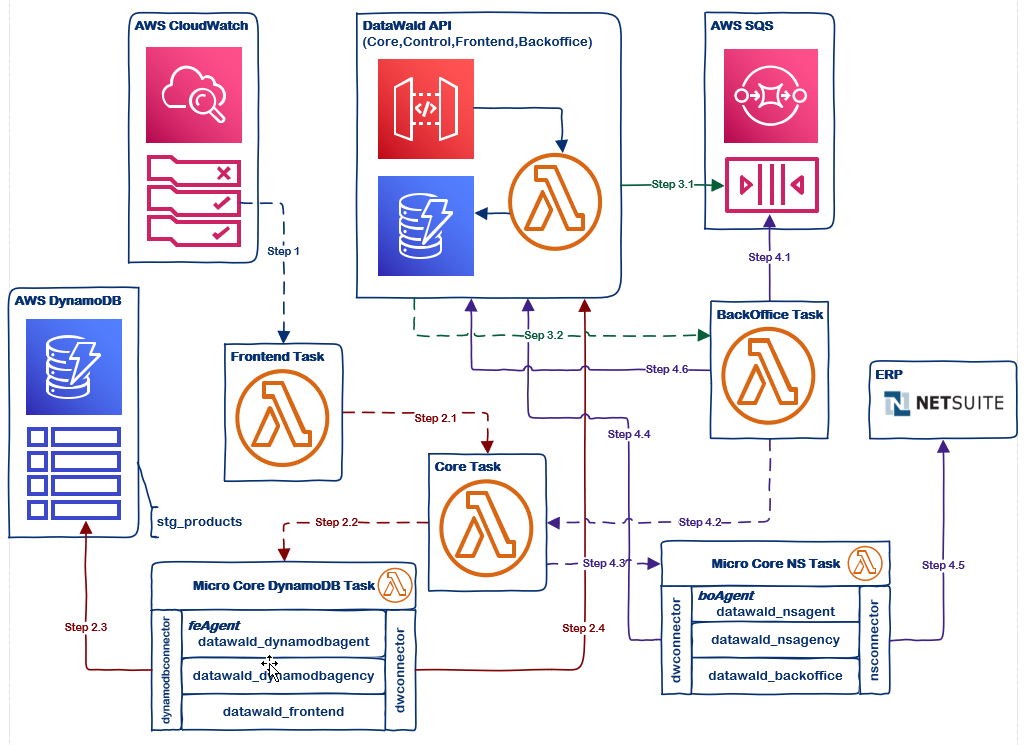
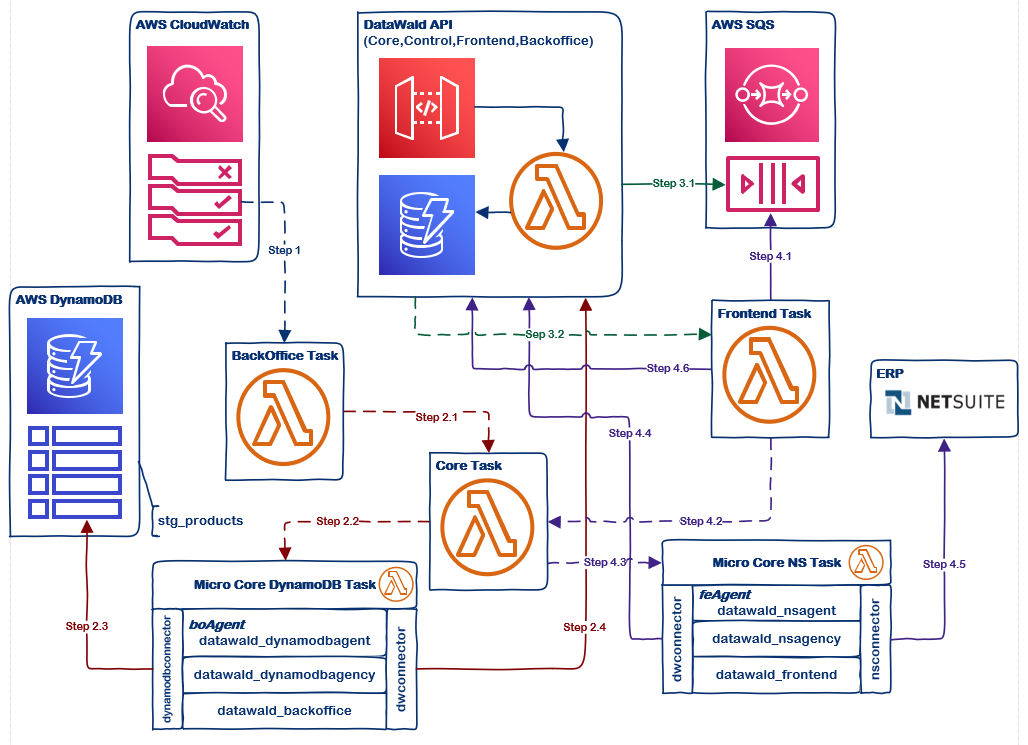
Updated.

diff --git a/_posts/2019-09-30-Vendors-Product-Data-Feed-Publishing-Workflow.md b/_posts/2019-09-30-Vendors-Product-Data-Feed-Publishing-Workflow.md
@@ -22,7 +22,7 @@ Periodically, the middle tier(DataWald) retrieves the data from the staging tabl
 
 ![2nd Stage](/images/2019-10-02_13-52-03.png)
 
-**Step 1** Schedule **Frontend Task** powered by an AWS CloudWatch.
+**Step 1** Schedule **BackOffice Task** powered by an AWS CloudWatch.
 
 **Step 2** Data collection from the table **stg_products**.
 1. Invoke **Core Task**.
@@ -30,11 +30,11 @@ Periodically, the middle tier(DataWald) retrieves the data from the staging tabl
 3. Collect data from the table **stg_products**.
 4. Push data to **DataWald API**.  
 
-**Step 3** Dispatch **BackOffice Task** with an AWS SQS.
+**Step 3** Dispatch **Frontend Task** with an AWS SQS.
 1. Place data to an AWS SQS queue.
-2. Dispatch **BackOffice Task**.
+2. Dispatch **Frontend Task**.
 
-**Step 4** Data synchronization to ERP(NetSuite) by **BackOffice Task**.
+**Step 4** Data synchronization to ERP(NetSuite) by **Frontend Task**.
 1. Retrieve data from the an AWS SQS queue.
 2. Invoke **Core Task**.
 3. Invoke **MicroCore NS Task**.
